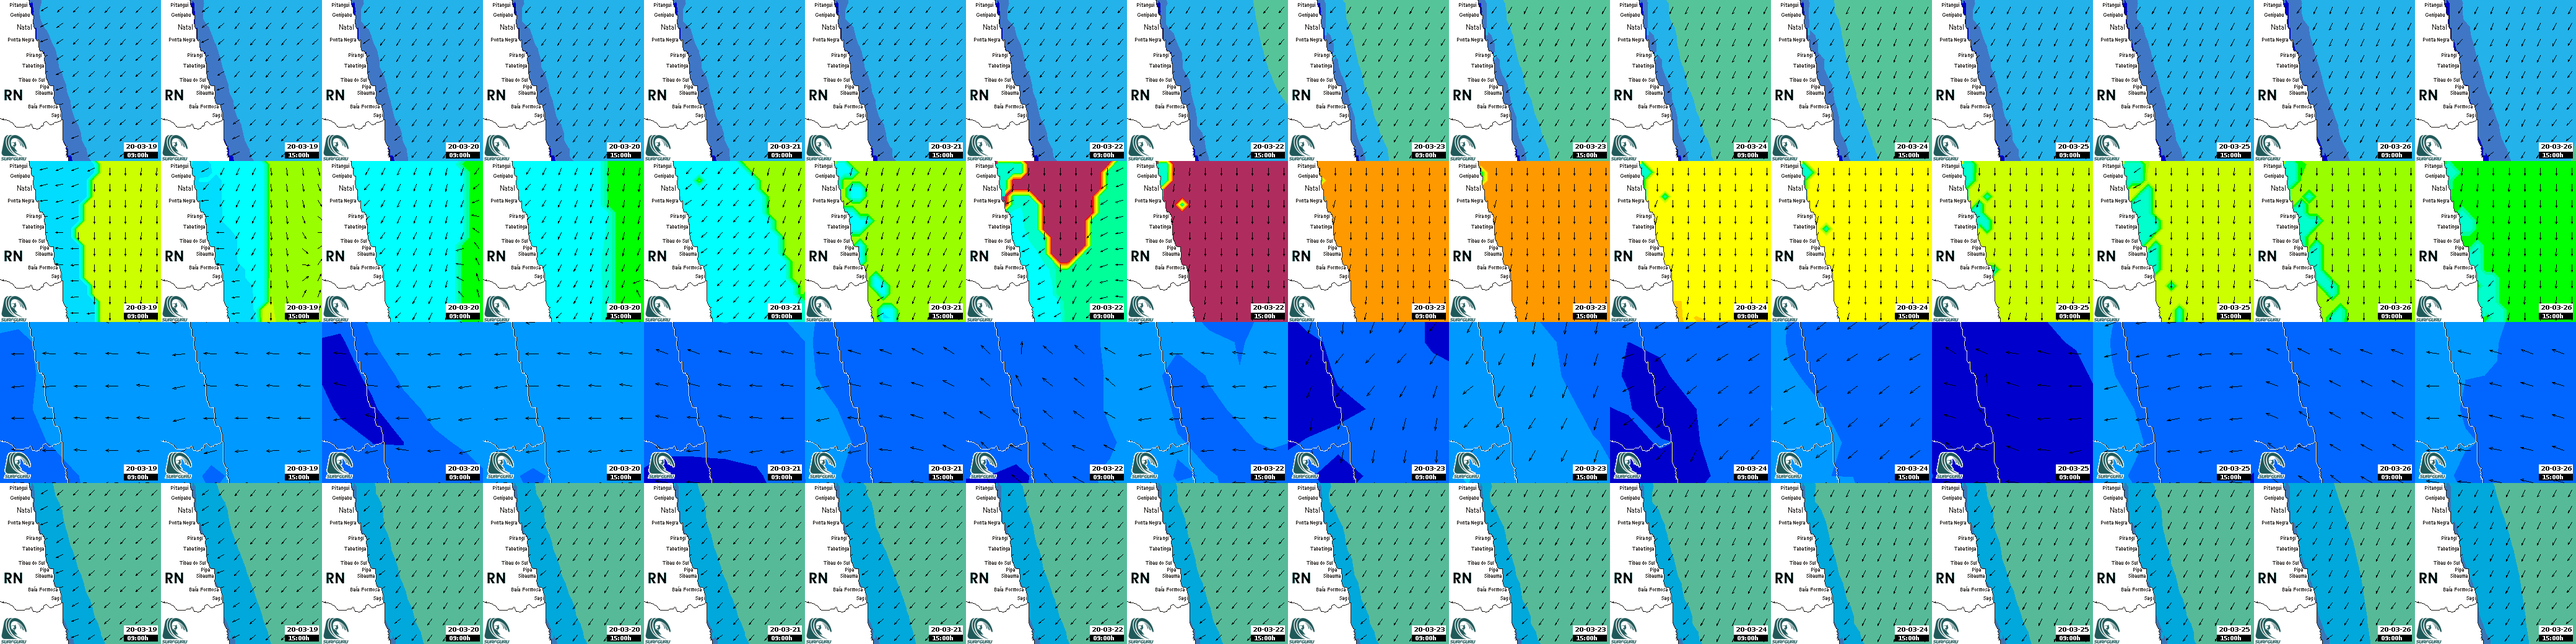
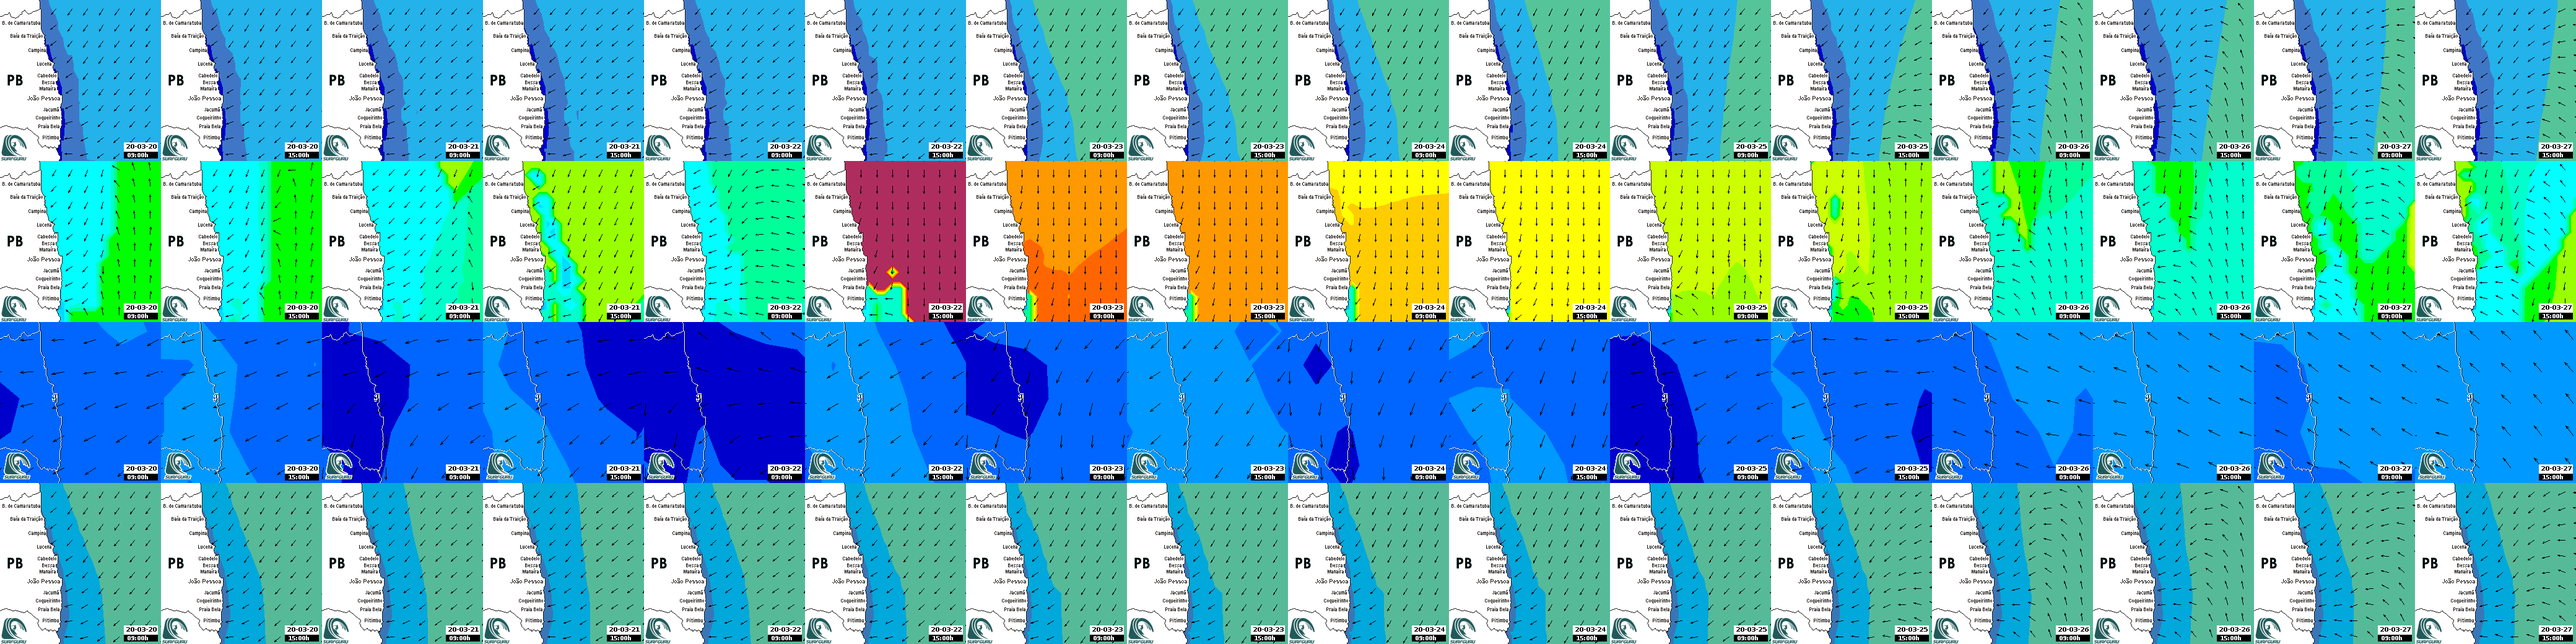
Telegram started

diff --git a/telegram.py b/telegram.py
@@ -1,0 +1,54 @@
+import requests
+from imgsaver import GetImage
+
+url = "https://api.telegram.org/bot1031484092:AAHfDz4MgkyH3OFbS3qA6HF9GEWqoW4YZyc/"
+
+def get_chat_id(update):
+    chat_id = update['message']["chat"]["id"]
+    return chat_id
+
+def get_message_text(update):
+    message_text = update["message"]["text"]
+    return message_text
+
+def last_update(req):
+    response = requests.get(req + "getUpdates")
+    response = response.json()
+    result = response["result"]
+    total_updates = len(result)-1
+    return result[total_updates]
+
+def send_message(chat_id,message_text):
+    params = {"chat_id": chat_id, "text":message_text}
+    response = requests.post(url + "sendMessage", data=params)
+    return response
+
+def sendImg(chat_id,estado):
+    path = '/home/felipe/Documentos/surfproject/imgpb273202029.png' 
+    params = {"chat_id": chat_id,"photo":path,'caption': 'image'}
+    response = requests.post(url + "sendPhoto", data=params)
+    return response
+
+
+
+
+def main():
+    update_id = last_update(url)["update_id"]
+    while True:
+        update = last_update(url)
+        if update_id == update["update_id"]:
+            if get_message_text(update).lower() ==  "oi" or get_message_text(update).lower() == 'ola':
+                send_message(get_chat_id(update),"Eae! Para ver as previsões da sua região digite /previsao estado")
+                update_id +=1
+            if get_message_text(update).lower() ==  "previsao":
+                send_message(get_chat_id(update),"ENVIANDO AS FOTOS FILHO DA PUTA")
+                sendImg(get_chat_id(update),'pb')
+                update_id +=1
+                send_message(get_chat_id(update),"TERMINOU FILHO DA PUTA")
+                update_id +=1
+            else:
+                send_message(get_chat_id(update), "Desculpe, não entendi")
+                update_id +=1
+
+
+main()

diff --git a/imgsaver.py b/imgsaver.py
@@ -6,8 +6,9 @@ from datetime import date
 ## 16 QUADRADOS HORIZONTAIS
 ## 4 VERTICAIS 260X260
 
-def GetImage(estado,prev):
+def GetImage(estado):
     c = 0
+    i = 0
 
     if estado == 'rn':
         estado = 'rnLeste'
@@ -20,17 +21,26 @@ def GetImage(estado,prev):
     img = cv2.imread('raw.png')
 
 
-    start_x = 520*prev
-    end_x = start_x + 260
+    start_x = 0
+    end_x = 260
     start_y = 0
     end_y = 260
+    lista = []
 
-    while end_y <= 1040:
-        cropc = img[start_y:end_y,start_x:end_x]
-        start_y += 260
-        end_y += 260
-        cv2.imwrite('img{}{}{}{}{}.png'.format(estado,dia+prev,mes,ano,c),cropc)
+    while end_x <= 4060:
+        while end_y <= 1040:
+            cropc = img[start_y:end_y,start_x:end_x]
+            lista.append(cropc)
+            cv2.imwrite('img{}{}{}{}{}.png'.format(estado,dia+c,mes,ano,i),cropc)
+            start_y += 260
+            end_y += 260
+            i+=1
         c += 1
+        start_y = 0
+        end_y = 260
+        start_x += 520
+        end_x += 520
 
+    return lista
     
     

diff --git a/main.py b/main.py
@@ -1,5 +1,3 @@
 from imgsaver import GetImage
 
-GetImage('rn',1)
-GetImage('rn',2)
-GetImage('rn',3)
+lista = GetImage('pb')
